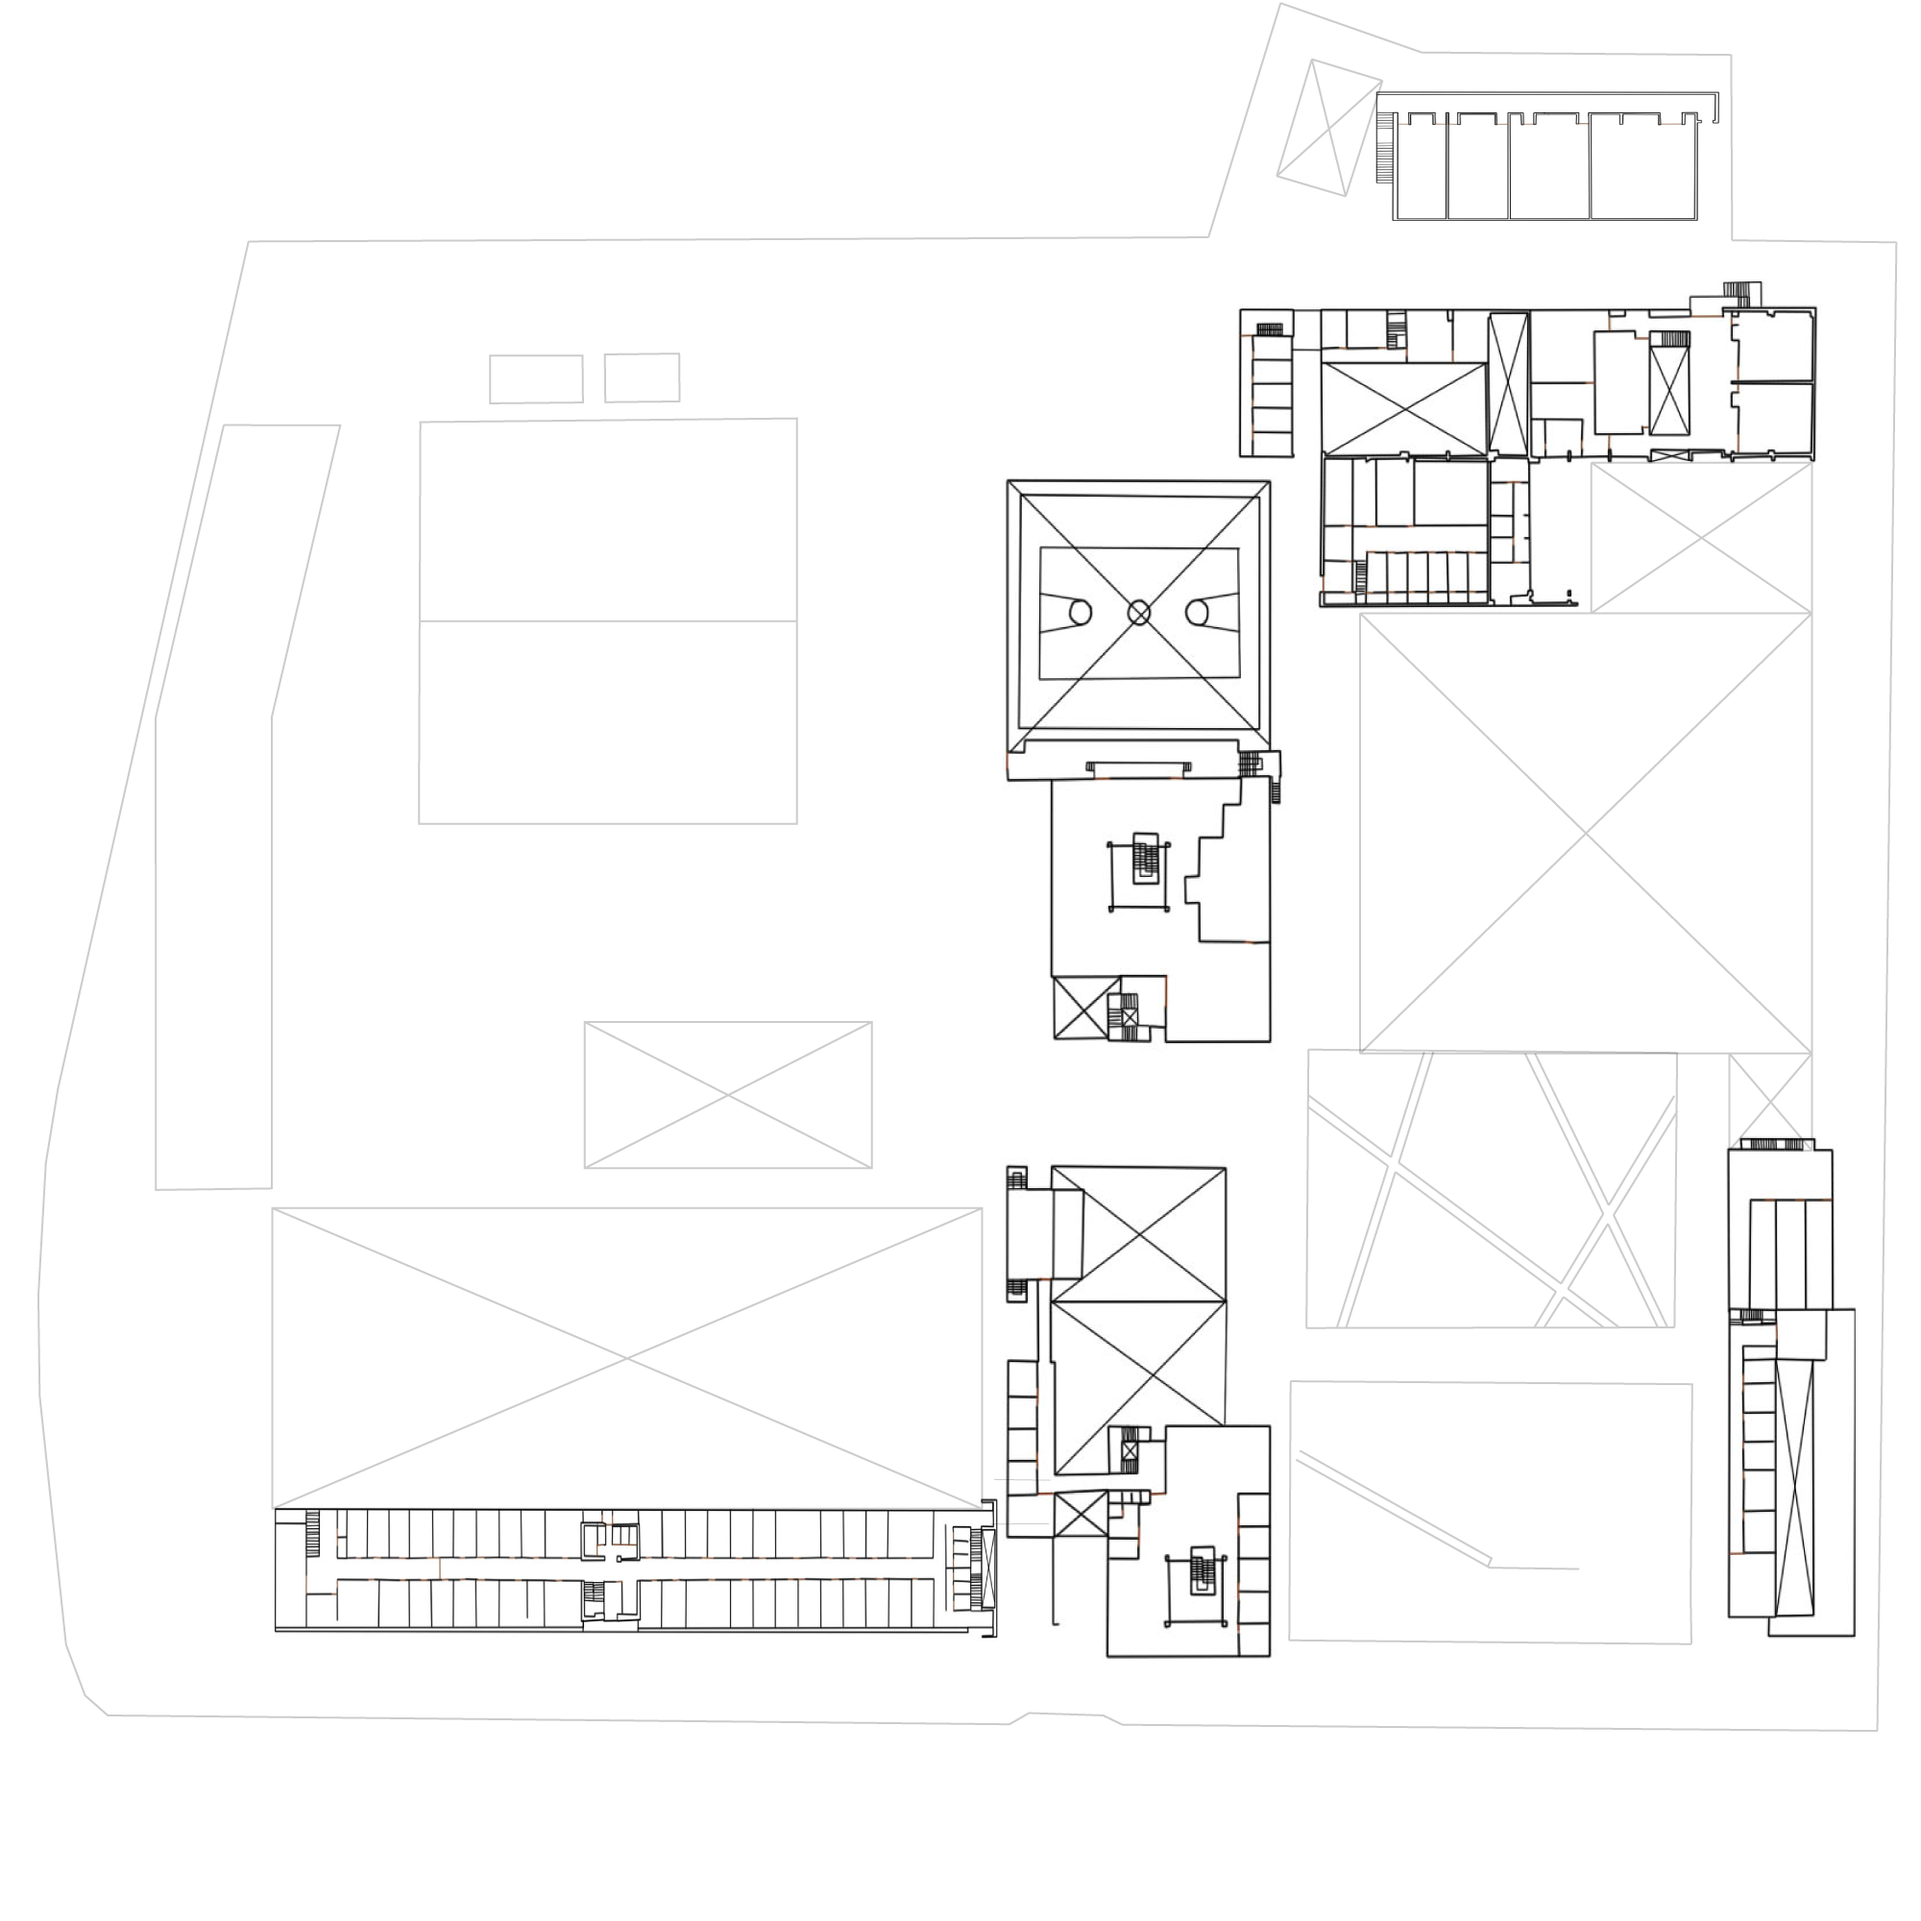
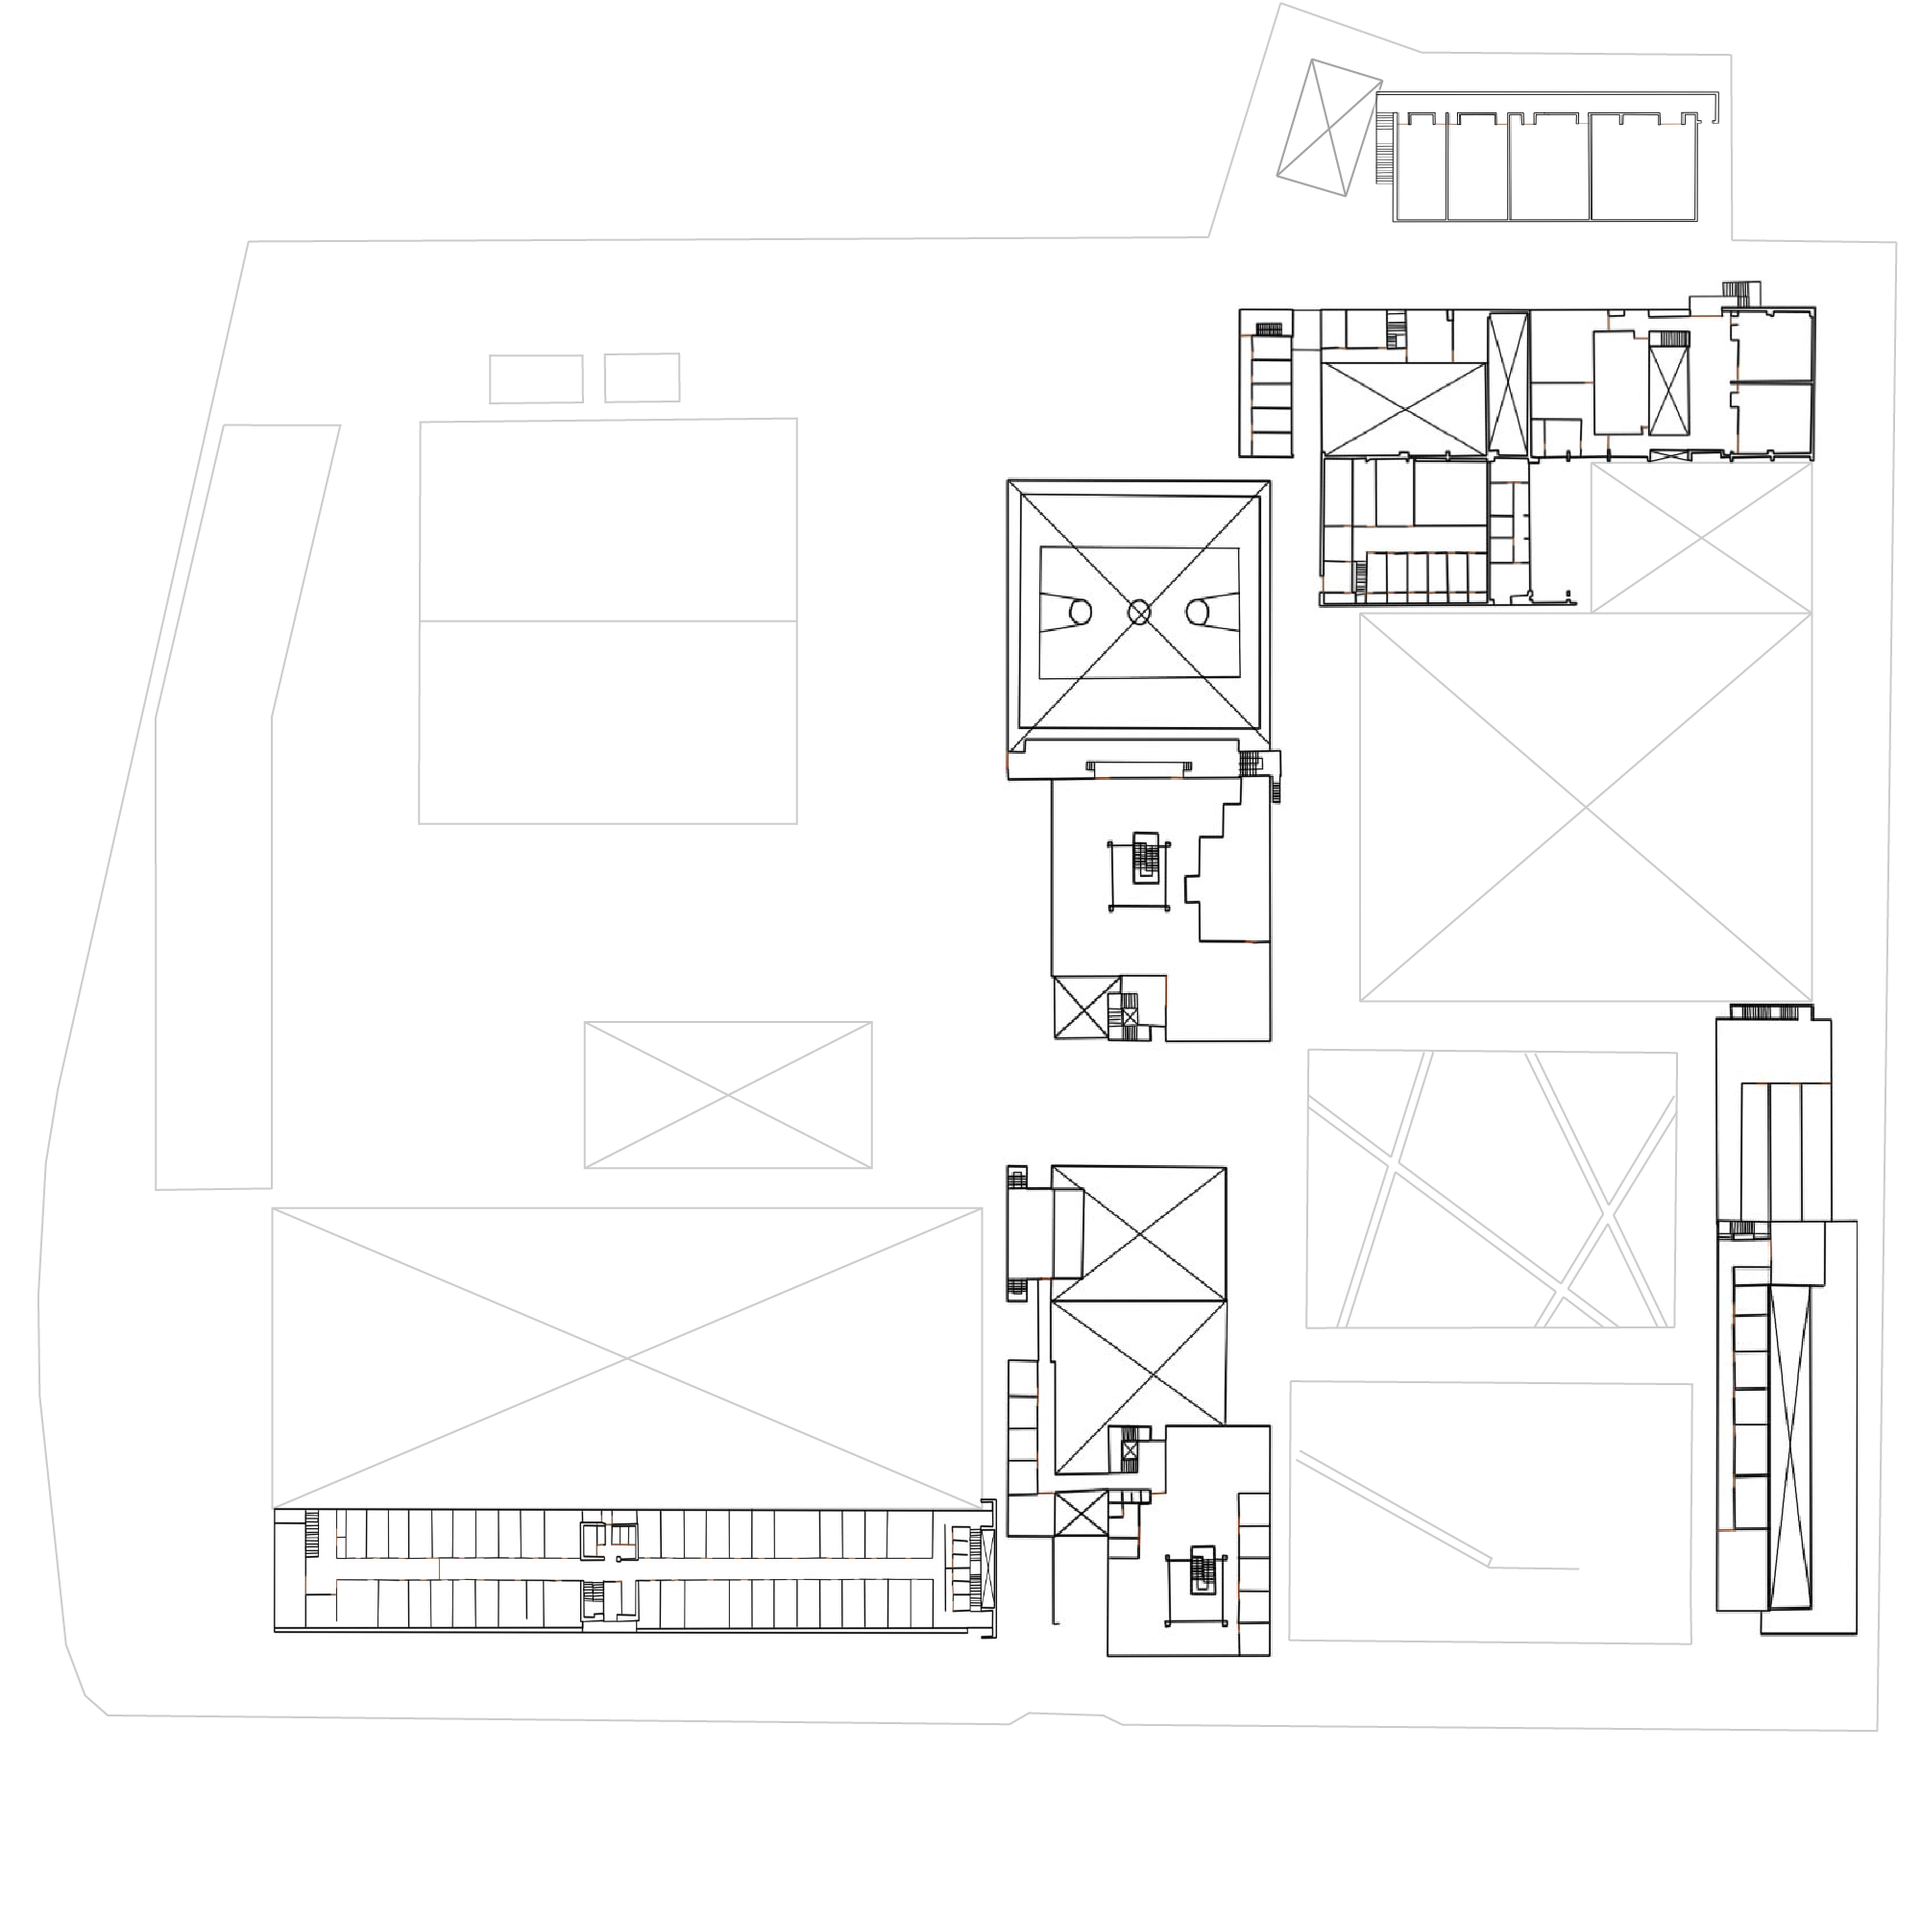
Ajuste de mapa y colores

diff --git a/mapa/static/css/map.css b/mapa/static/css/map.css
@@ -12,7 +12,7 @@ body {
 }
 
 .green-elevator {
-  filter: brightness(0) saturate(100%) invert(65%) sepia(74%) saturate(3491%) hue-rotate(84deg) brightness(117%) contrast(109%);
+  filter: brightness(0) saturate(100%) invert(45%) sepia(99%) saturate(1388%) hue-rotate(92deg) brightness(93%) contrast(95%);
   max-height: 100px;
   max-width: 100px;
 }
@@ -30,7 +30,7 @@ body {
 }
 
 .green-slope {
-  filter: brightness(0) saturate(100%) invert(65%) sepia(74%) saturate(3491%) hue-rotate(84deg) brightness(117%) contrast(109%);
+  filter: brightness(0) saturate(100%) invert(45%) sepia(99%) saturate(1388%) hue-rotate(92deg) brightness(93%) contrast(95%);
   max-height: 100px;
   max-width: 100px;
 }

diff --git a/mapa/static/js/map.js b/mapa/static/js/map.js
@@ -28,7 +28,7 @@ var zeroMarkers = L.layerGroup();
 
 var map = L.map('map', {
     crs: L.CRS.Simple,
-    minZoom: 0,
+    minZoom: 1,
     maxZoom: 4,
     layers: [basemap],
     attribution: "USM SJ"
@@ -44,9 +44,9 @@ var xy = function (x, y) {
 
 var baseIcon = L.Icon.extend({
     options: {
-        iconSize: [50, 100],
-        iconAnchor: [22, 94],
-        popupAnchor: [-3, -76]
+        iconSize: [250, 50],
+        iconAnchor: [125, 50],
+        popupAnchor: [0, -25]
     }
 });
 
